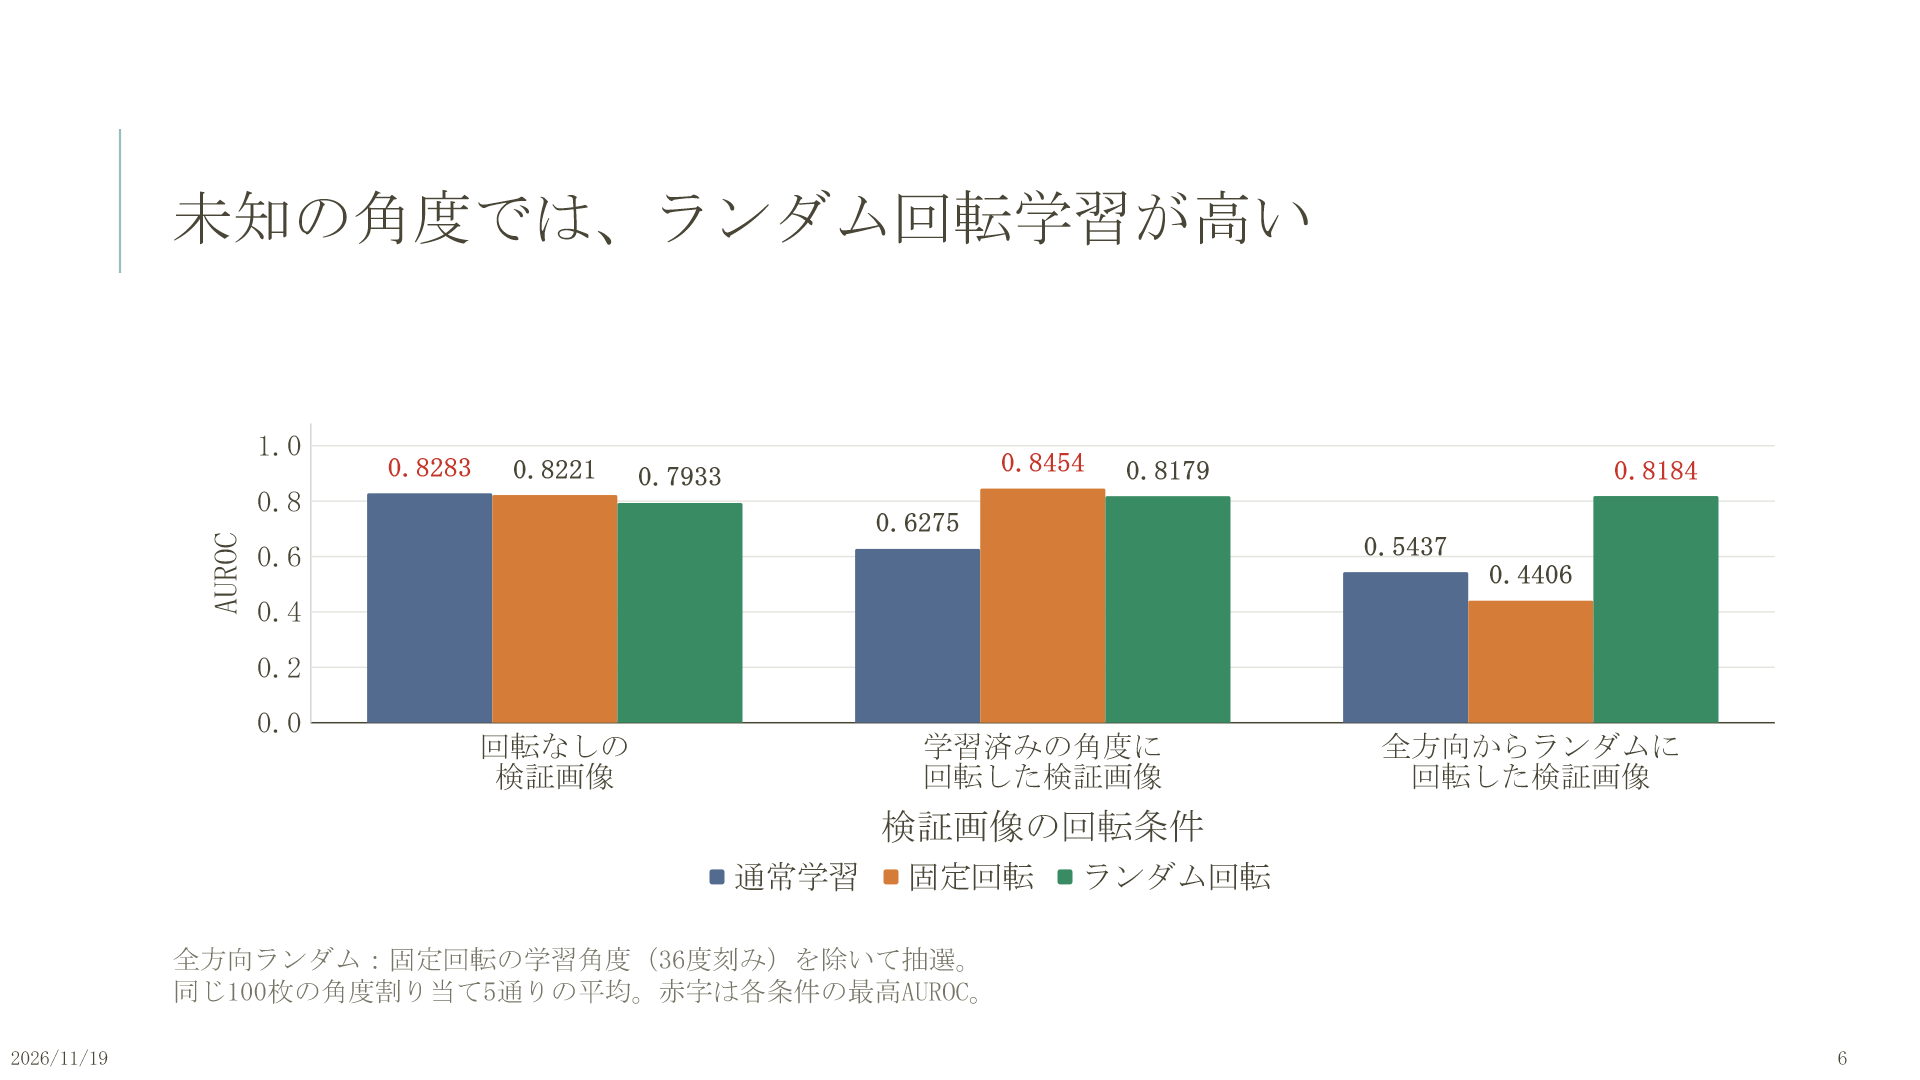
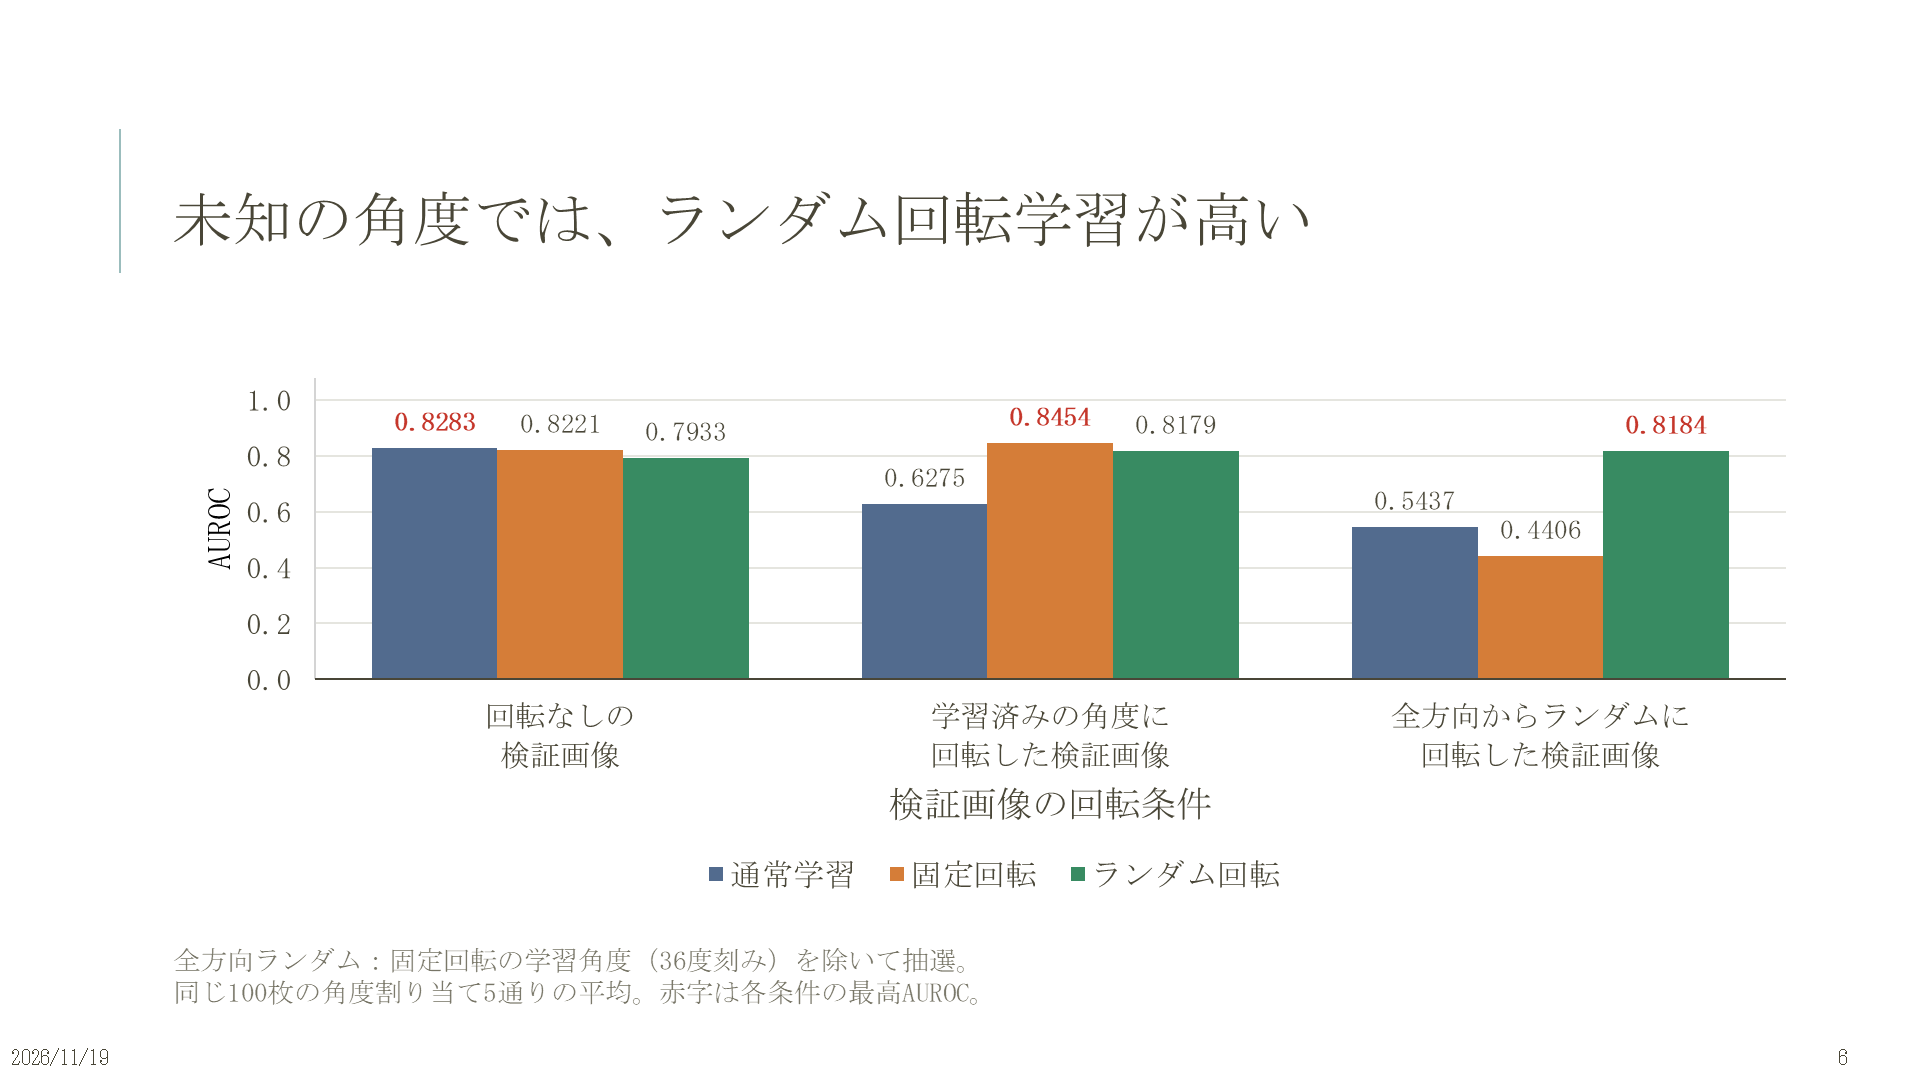
fix: PowerPointのAUROCラベルを数値のみの小数4桁表示に修正

diff --git a/memory/memory.md b/memory/memory.md
@@ -731,3 +731,10 @@
 * **最高値の強調：** 回転なしの通常学習0.8283、学習済み角度の固定回転0.8454、全方向ランダムのランダム回転学習0.8184の3数値だけを赤字にした。残り6個の数値も表示し、元のAUROCは変更していない。グラフとデータラベルはPowerPointで編集可能な形式。
 * **現在の資料への追従：** 作業開始時にユーザー保存済みのv2が19枚であることを確認。以前の「向きへの対応と、細部の復元は分けて考える」ページがない現在の構成を保持し、ページを再挿入せず6枚目だけを変更した。発表メモとプレビューも現在の19枚へ対応させ、v1は維持。
 * **確認・保存：** 作業前のv2を一時バックアップし、更新した最終PPTXを再描画。6枚目を目視確認し、変更対象外の18枚は作業前の保存内容を描画した結果と一致した。AUROC9値が保存済み結果と一致し、赤字のデータラベルが上記3箇所であることを確認。OneDriveのv2と発表メモ、リポジトリのv2発表メモ・プレビューを更新。学習・推論・評価は行わず、今回の記録とメモ・プレビューをローカルコミットし、pushしない。
+
+## 94. 2026-11-20：6枚目のデータラベルを数値だけに修正し、PowerPoint本体で確認
+
+* **ユーザーが確認した不具合：** 第93節の修正後、PowerPoint本体では赤字ラベルにモデル名・検証条件名・凡例キーなどが現れ、小数4桁の数値だけという意図が反映されていなかった。前回の描画確認だけではネイティブ表示との差を検出できていなかったため、今回修正した。
+* **原因と承認済み修正：** 元PPTXの赤字の個別データラベルで、`showSerName`・`showCatName`・`showLegendKey`・`showPercent`・`showBubbleSize`が有効になっていた。各ラベルと共通設定でこれらを明示的に無効化し、`showVal`のみ有効、`numFmt=0.0000`・`sourceLinked=0`を指定。棒の上はAUROC数値のみとし、0.8283／0.8454／0.8184だけ赤字を維持。下部の条件名・軸タイトル・凡例は変更しない。
+* **ネイティブ確認：** 修正済みの一時PPTXをMicrosoft PowerPointで読み取り専用・ウィンドウ非表示で開き、6枚目をPNGへ出力して目視確認。PowerPointから9個のデータラベルのText・NumberFormat・ShowSeriesName・ShowCategoryName・ShowLegendKeyを取得し、全て数値だけの小数4桁・不要項目Falseであることを確認した。今回の6枚目プレビューはPowerPoint本体から出力した画像を採用。確認用の一時資料だけを閉じ、ユーザーが開いている資料の保存や編集は行っていない。
+* **保存・運用：** 作業前のv2を一時バックアップし、同名のOneDrive側PPTX・発表メモ、リポジトリのv2発表メモ・6枚目プレビュー・一覧を更新。現在の19枚構成を保持し、画像・他ページのスライドXML・ノート・埋め込みExcelデータは変更していない。AUROC値も維持。v1・学習コード・モデル・実験結果は変更せず、今回の記録とメモ・プレビューのみローカルコミットし、pushしない。

diff --git a/reports/2026年度秋セメスター/20261119/報告会_20261119_v2_構成と発表メモ.md b/reports/2026年度秋セメスター/20261119/報告会_20261119_v2_構成と発表メモ.md
@@ -15,6 +15,12 @@
 - 横軸が「検証画像の回転条件」だと分かるよう、条件名と軸タイトルを変更した。
 - 最高値の通常学習0.8283／固定回転0.8454／ランダム回転0.8184を赤字で強調。データは変更していない。
 
+## 6枚目のPowerPoint表示の修正（2026-11-20）
+
+- 赤字のラベルに系列名・検証条件・凡例キーが表示される不具合を修正し、棒の上は数値だけにした。
+- 0.8283／0.8454／0.8184のみ赤字とし、9ラベルとも小数4桁を明示。下部の条件名・軸タイトル・凡例は変更していない。
+- 今回はMicrosoft PowerPoint本体で描画とデータラベルの表示内容を確認した。6枚目のプレビューはPowerPointから出力したもの。
+
 ## 報告の中心となる結論
 
 - transistor：回転なしは通常学習0.8283、既知角度は固定回転0.8454が最良。未知ランダム角度は通常0.5437／固定0.4406／ランダム0.8184（5割り当て平均）。
@@ -151,6 +157,9 @@ saved_models/transistor_rotation_followup_20261118/20261118_180211_7818e304/trai
 [プレビュー](previews_v2/slide-06.png)
 
 **掲載内容**
+
+- データラベルはAUROC数値のみ・小数4桁。系列名・分類名・凡例キー・割合・バブルサイズの表示は明示的に無効化した。
+- 修正済みPPTXをMicrosoft PowerPointで読み取り専用で開き、6枚目を描画して確認。9ラベルの表示文字列が数値だけであることをPowerPointから取得して照合した。
 
 - 横軸タイトル：「検証画像の回転条件」。
 - 「回転なしの検証画像」「学習済みの角度に回転した検証画像」「全方向からランダムに回転した検証画像」の3条件を比較。
